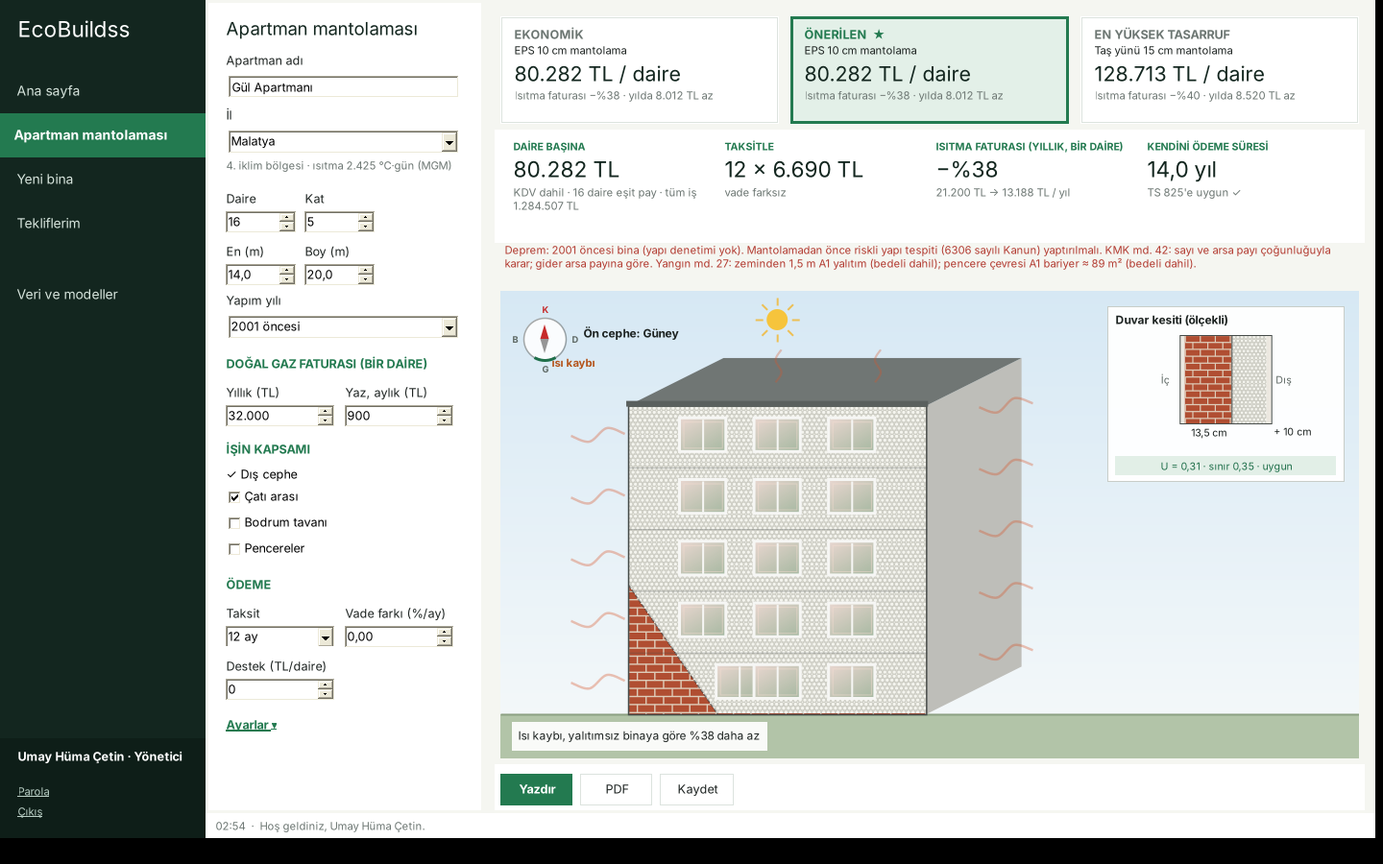
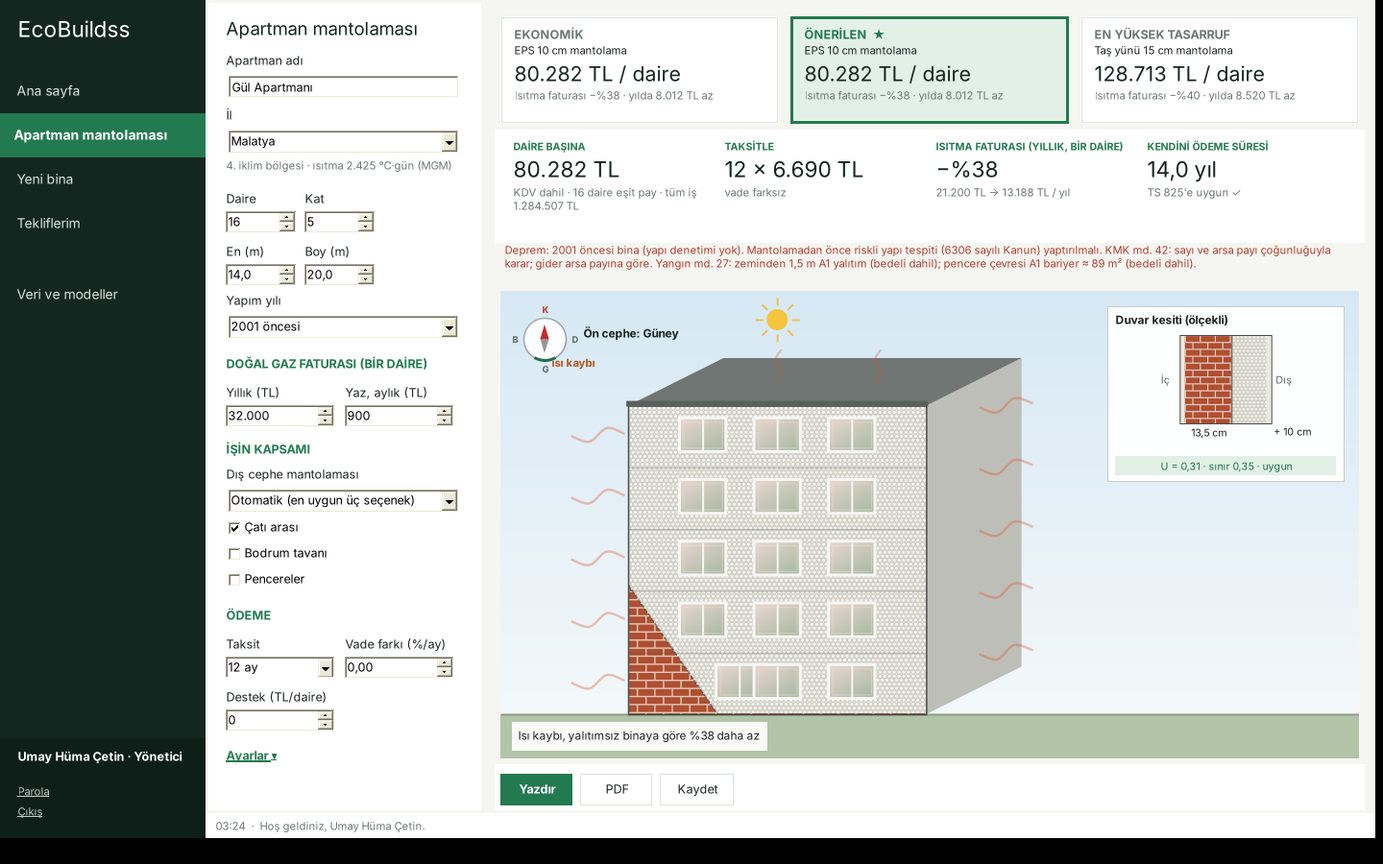
Apartmanda mantolama malzemesi seçimi; ortak veritabanı (bilgisayarın tüm kullanıcıları ve ağ klasörü), eşzamanlı yazmada güvenli işlem

Changed region(s): [[0.1562, 0.5289, 0.3438, 0.9022]]

diff --git a/src/EcoBuildss.App/Sekmeler/ApartmanSekmesi.cs b/src/EcoBuildss.App/Sekmeler/ApartmanSekmesi.cs
@@ -13,7 +13,9 @@ namespace EcoBuildss.UI
         readonly Durum d;
         readonly TextBox ad = new() { Width = 240 };
         readonly ComboBox il = new() { DropDownStyle = ComboBoxStyle.DropDownList, Width = 240 }, taksit = new() { DropDownStyle = ComboBoxStyle.DropDownList, Width = 110 },
-            dograma = new() { DropDownStyle = ComboBoxStyle.DropDownList, Width = 240 }, yapim = new() { DropDownStyle = ComboBoxStyle.DropDownList, Width = 240 };
+            dograma = new() { DropDownStyle = ComboBoxStyle.DropDownList, Width = 240 }, yapim = new() { DropDownStyle = ComboBoxStyle.DropDownList, Width = 240 },
+            mantolama = new() { DropDownStyle = ComboBoxStyle.DropDownList, Width = 240 };
+        List<Malzeme> mantolamaMalzemeleri = new();   // mantolama kutusundaki sıra (0 = otomatik)
         readonly NumericUpDown daire = Sayi(1, 500, 16, 0), kat = Sayi(1, 40, 5, 0), en = Sayi(4, 200, 14, 1), boy = Sayi(4, 300, 20, 1),
             fatura = Sayi(0, 1_000_000, 0, 0, 500), yaz = Sayi(0, 100_000, 0, 0, 50), vade = Sayi(0, 10, 0, 2, 0.25m), destek = Sayi(0, 1_000_000, 0, 0, 1000),
             katH = Sayi(2.4m, 6, 2.9m, 2), camOrani = Sayi(0, 90, 18, 0), mevcutU = Sayi(0.3m, 3.5m, 1.78m, 2), kar = Sayi(0, 100, 18, 0), indirim = Sayi(0, 60, 0, 1);
@@ -60,7 +62,11 @@ namespace EcoBuildss.UI
             Baslik("Doğal gaz faturası (bir daire)");
             sol.Controls.Add(Izgara(("Yıllık (TL)", fatura), ("Yaz, aylık (TL)", yaz)));
             Baslik("İşin kapsamı");
-            sol.Controls.Add(new Label { Text = "✓ Dış cephe", AutoSize = true, Font = Ui.Yazi, Margin = new Padding(0, 6, 0, 0) });
+            mantolamaMalzemeleri = d.V.Malzemeler.Where(m => m.Tur == 'Y').OrderBy(m => m.Aile).ThenBy(m => m.Kalinlik).ToList();
+            mantolama.Items.Add("Otomatik (en uygun üç seçenek)");
+            foreach (var m in mantolamaMalzemeleri) mantolama.Items.Add(m.KisaAd);
+            mantolama.SelectedIndex = 0;
+            Alan(sol, "Dış cephe mantolaması", mantolama);
             sol.Controls.Add(cati); sol.Controls.Add(zemin); sol.Controls.Add(pencere);
             Baslik("Ödeme");
             sol.Controls.Add(Izgara(("Taksit", taksit), ("Vade farkı (%/ay)", vade)));
@@ -109,7 +115,7 @@ namespace EcoBuildss.UI
             duzen.Controls.Add(sol, 0, 0); duzen.Controls.Add(orta, 1, 0);
             Controls.Add(duzen);
 
-            foreach (Control c in new Control[] { yapim, cevre, taban, penEn, penBoy, destek, il, taksit, dograma, daire, kat, en, boy, fatura, yaz, vade, katH, camOrani, mevcutU, kar, indirim, cati, pencere, zemin })
+            foreach (Control c in new Control[] { mantolama, yapim, cevre, taban, penEn, penBoy, destek, il, taksit, dograma, daire, kat, en, boy, fatura, yaz, vade, katH, camOrani, mevcutU, kar, indirim, cati, pencere, zemin })
                 switch (c)
                 {
                     case ComboBox cb: cb.SelectedIndexChanged += (_, __) => Degisti(); break;
@@ -165,7 +171,18 @@ namespace EcoBuildss.UI
                 ApartmanSonucu A(Secenek s) => Apartman.Hesapla(d.V, r, s, (int)daire.Value, (double)kar.Value / 100, (double)indirim.Value / 100, f, y, TaksitSayisi, (double)vade.Value / 100, (double)destek.Value);
                 var eko = r.Siralama.OrderBy(s => s.IlkYatirim).First();
                 var yuk = r.Siralama.OrderBy(s => s.YillikIsitmaKWh).ThenBy(s => s.IlkYatirim).First();
-                paketler = new() { ("Ekonomik", eko, A(eko)), ("Önerilen", r.Siralama[0], A(r.Siralama[0])), ("En yüksek tasarruf", yuk, A(yuk)) };
+                // Firma/yönetim belirli bir malzeme istiyorsa orta kart o olur; iki yandaki kartlar karşılaştırma için kalır
+                Secenek? secilen = null;
+                if (mantolama.SelectedIndex > 0)
+                {
+                    var m = mantolamaMalzemeleri[mantolama.SelectedIndex - 1];
+                    secilen = r.Siralama.FirstOrDefault(x => x.Yalitim.Id == m.Id) ?? r.Tum.Where(x => x.Yalitim.Id == m.Id).OrderBy(x => x.IlkYatirim).FirstOrDefault();
+                    if (secilen == null) d.Bildir($"{m.KisaAd} bu bina yüksekliğinde kullanılamaz (yangın yönetmeliği md. 27).");
+                }
+                paketler = secilen != null
+                    ? new() { ("Ekonomik", eko, A(eko)), ("Seçilen", secilen, A(secilen)), ("En yüksek tasarruf", yuk, A(yuk)) }
+                    : new() { ("Ekonomik", eko, A(eko)), ("Önerilen", r.Siralama[0], A(r.Siralama[0])), ("En yüksek tasarruf", yuk, A(yuk)) };
+                if (secilen != null) seciliIndeks = 1;
                 Goster();
             }
             catch (Exception e) { d.Hata("Hesap yapılamadı: " + e.Message, e); }
@@ -201,7 +218,7 @@ namespace EcoBuildss.UI
             var t = new KayitliTeklif
             {
                 TeklifNo = d.Db.YeniTeklifNo(), Musteri = ad.Text.Trim(), MusteriTipi = "Site yönetimi", Il = SeciliIl.Ad, ProjeTuru = "Yenileme",
-                KullanimAlani = SonSonuc.KullanimAlani, Paket = pad == "En yüksek tasarruf" ? "Yüksek performans" : pad, Oncelik = "Dengeli",
+                KullanimAlani = SonSonuc.KullanimAlani, Paket = pad == "En yüksek tasarruf" ? "Yüksek performans" : pad == "Seçilen" ? "Özel" : pad, Oncelik = "Dengeli",
                 YalitimId = s.Yalitim.Id, CamId = s.Cam.Id, DuvarId = s.Duvar.Id, Dograma = SonGirdi.Dograma, Yakit = "DG",
                 En = (double)en.Value, Boy = (double)boy.Value, Cevre = b.En.HasValue ? 0 : (double)cevre.Value, Taban = b.En.HasValue ? 0 : (double)taban.Value, PencereEn = (double)penEn.Value / 100, PencereBoy = (double)penBoy.Value / 100, KatSayisi = b.KatSayisi, KatYuksekligi = (double)katH.Value, CamOrani = SonGirdi.CamOrani,
                 TeklifTL = a.TeklifTL, TeklifTLm2 = a.TeklifTL / SonSonuc.KullanimAlani, GeriOdemeYil = a.GeriOdemeYil, IndirimOrani = (double)indirim.Value / 100,
@@ -226,6 +243,7 @@ namespace EcoBuildss.UI
                 if (t.En > 0) { en.Value = Sinirla(en, t.En); boy.Value = Sinirla(boy, t.Boy); kat.Value = Sinirla(kat, t.KatSayisi); katH.Value = Sinirla(katH, t.KatYuksekligi); }
                 if (t.DaireSayisi > 0) daire.Value = Sinirla(daire, t.DaireSayisi);
                 yapim.SelectedIndex = Math.Max(0, Array.IndexOf(Deprem.Donemler, t.YapimDonemi));
+                mantolama.SelectedIndex = t.Paket == "Özel" ? mantolamaMalzemeleri.FindIndex(m => m.Id == t.YalitimId) + 1 : 0;
                 destek.Value = Sinirla(destek, t.DestekDaire);
                 camOrani.Value = Sinirla(camOrani, 100 * t.CamOrani); indirim.Value = Sinirla(indirim, 100 * t.IndirimOrani);
             }
@@ -324,7 +342,7 @@ namespace EcoBuildss.UI
             if (Veri is not var (ad, s, a)) return;
             float y = 10, x = 14, w = Width - 28;
             void Yaz(string t, Font f, Color c, float ek = 3) { var b = g.MeasureString(t, f, (int)w); using var br = new SolidBrush(c); g.DrawString(t, f, br, new RectangleF(x, y, w, b.Height)); y += b.Height + ek; }
-            Yaz(ad.ToUpper(Ui.TR) + (ad == "Önerilen" ? "  ★" : ""), Ui.Kalin, ad == "Önerilen" ? Ui.Yesil : Ui.Soluk, 1);
+            Yaz(ad.ToUpper(Ui.TR) + (ad == "Önerilen" ? "  ★" : ""), Ui.Kalin, ad == "Önerilen" || ad == "Seçilen" ? Ui.Yesil : Ui.Soluk, 1);
             Yaz(TeklifRaporu.PaketAdi(s), Ui.Kucuk, Ui.Metin, 4);
             Yaz($"{Ui.Tl(a.NetDaireTL)} / daire", Ui.BuyukSayi, Ui.Koyu, 2);
             Yaz($"Isıtma faturası −%{100 * a.AzalmaOrani:0} · yılda {Ui.Tl(a.YillikTasarruf)} az", Ui.Kucuk, Ui.Soluk, 0);

diff --git a/src/EcoBuildss.App/Sekmeler/YoneticiSekmesi.cs b/src/EcoBuildss.App/Sekmeler/YoneticiSekmesi.cs
@@ -227,11 +227,59 @@ namespace EcoBuildss.UI
                 catch (Exception e) { d.Hata("Geri yüklenemedi: " + e.Message, e); Ui.Hata(this, "Geri yüklenemedi: " + e.Message); }
             }));
             ust.Controls.Add(Ui.Dugme("Kurtarma anahtarı", (_, __) => KurtarmaYenile()));
+            ust.Controls.Add(Ui.Dugme("Veri konumu", (_, __) => VeriKonumuDegistir()));
             ust.Controls.Add(Ui.Dugme("Klasör", (_, __) => { try { System.Diagnostics.Process.Start(new System.Diagnostics.ProcessStartInfo(d.Db!.YedekKlasoru) { UseShellExecute = true }); } catch { } }));
             var p = new Panel();
             p.Controls.Add(Ui.Kart("Yedekler", yedekler)); p.Controls.Add(ust);
             p.VisibleChanged += (_, __) => { if (p.Visible) Doldur(); };
             return p;
+        }
+
+        /// <summary>
+        /// Veritabanının yeri: bu bilgisayar (bütün Windows kullanıcıları) ya da ağ klasörü (ofisteki birkaç bilgisayar).
+        /// Mevcut veri yeni klasöre tutarlı biçimde kopyalanır; oradan devam etmek için program yeniden başlar.
+        /// </summary>
+        void VeriKonumuDegistir()
+        {
+            if (d.Db == null || !d.Yonetici) return;
+            string simdiki = Path.GetDirectoryName(d.Db.Dosya)!;
+            using var f = Pencere("Veri konumu", 230);
+            var p = (FlowLayoutPanel)f.Controls[0];
+            p.Controls.Add(Ui.Etiket("Şu an"));
+            p.Controls.Add(new TextBox { Text = simdiki, ReadOnly = true, Width = 300 });
+            string? secim = null; bool buBilgisayar = false;
+            var sec = Ui.Dugme("Ağ klasörü seç", (_, __) =>
+            {
+                using var fb = new FolderBrowserDialog { Description = "Ofisteki bilgisayarların ortak kullanacağı klasör" };
+                if (fb.ShowDialog(f) == DialogResult.OK) { secim = fb.SelectedPath; f.DialogResult = DialogResult.OK; }
+            }, true);
+            var yerel = Ui.Dugme("Bu bilgisayar", (_, __) => { buBilgisayar = true; f.DialogResult = DialogResult.OK; });
+            yerel.Enabled = AnaForm.Konum?.Secilmis == true;
+            p.Controls.Add(sec); p.Controls.Add(yerel);
+            if (f.ShowDialog(this) != DialogResult.OK) return;
+
+            string hedef = buBilgisayar ? AnaForm.OrtakKlasor : secim!;
+            if (string.Equals(Path.GetFullPath(hedef).TrimEnd('\\', '/'), Path.GetFullPath(simdiki).TrimEnd('\\', '/'), StringComparison.OrdinalIgnoreCase)) return;
+            string hedefDb = Path.Combine(hedef, VeriKonumu.DbAdi);
+            try
+            {
+                if (File.Exists(hedefDb))
+                {
+                    if (MessageBox.Show(this, "Bu klasörde zaten EcoBuildss verisi var. Oradaki veri kullanılsın mı? (Buradaki veri olduğu gibi kalır.)", "Veri konumu",
+                                        MessageBoxButtons.YesNo, MessageBoxIcon.Question) != DialogResult.Yes) return;
+                }
+                else
+                {
+                    if (!VeriKonumu.Yazilabilir(hedef)) { Ui.Hata(this, "Bu klasöre yazılamıyor."); return; }
+                    d.Db.KopyaYaz(hedefDb);
+                }
+                VeriKonumu.Ayarla(AnaForm.OrtakKlasor, buBilgisayar ? null : hedef);
+                d.Db.Gunluk("Veri konumu değişti", $"{simdiki} → {hedef}", Seviye.Guvenlik);
+            }
+            catch (UnauthorizedAccessException) { Ui.Hata(this, "Bu ayar için programı kurulum dosyasıyla kurun ya da yönetici olarak çalıştırın."); return; }
+            catch (Exception e) { d.Hata("Veri konumu değiştirilemedi: " + e.Message, e); Ui.Hata(this, "Veri konumu değiştirilemedi: " + e.Message); return; }
+            MessageBox.Show(this, "Program yeni konumla yeniden açılacak.", "Veri konumu", MessageBoxButtons.OK, MessageBoxIcon.Information);
+            Application.Restart();
         }
 
         void KurtarmaYenile()

diff --git a/src/EcoBuildss.Core/Depo/VeriKonumu.cs b/src/EcoBuildss.Core/Depo/VeriKonumu.cs
@@ -1,0 +1,77 @@
+using System;
+using System.IO;
+
+namespace EcoBuildss.Core.Depo
+{
+    /// <summary>
+    /// Veritabanının yeri. Sırasıyla:
+    ///  1) Yöneticinin seçtiği klasör (ağ paylaşımı olabilir) — ortak klasördeki veri_konumu.txt dosyasında yazılıdır;
+    ///  2) bu bilgisayarın ortak klasörü (C:\ProgramData\EcoBuildss) — bilgisayardaki bütün Windows kullanıcıları aynı veriyi görür;
+    ///  3) yazılamıyorsa kullanıcının kendi klasörü (%AppData%\EcoBuildss).
+    /// Eski sürümde kullanıcı klasöründe kalan veritabanı, ortak klasör boşsa oraya kopyalanır (eskisi silinmez).
+    /// </summary>
+    public static class VeriKonumu
+    {
+        public const string DbAdi = "ecobuildss.db", KonumDosyasi = "veri_konumu.txt";
+
+        public sealed class Sonuc
+        {
+            public string Klasor = "";
+            public string? Tasindi;      // eski konumdan kopyalandıysa eski klasör
+            public bool Secilmis;         // yöneticinin seçtiği klasör mü
+        }
+
+        public static Sonuc Bul(string ortak, string kisisel)
+        {
+            string konum = Path.Combine(ortak, KonumDosyasi);
+            if (File.Exists(konum))
+            {
+                string k = File.ReadAllText(konum).Trim();
+                if (k.Length > 0)
+                {
+                    try { Directory.CreateDirectory(k); }
+                    catch (Exception e) { throw new IOException($"Seçilen veri klasörüne ulaşılamıyor: {k}\n({e.Message})\nAğ bağlantısını kontrol edin.", e); }
+                    if (!File.Exists(Path.Combine(k, DbAdi)) && !Yazilabilir(k)) throw new IOException($"Seçilen veri klasörüne yazılamıyor: {k}");
+                    return new Sonuc { Klasor = k, Secilmis = true };
+                }
+            }
+            if (Yazilabilir(ortak))
+            {
+                var s = new Sonuc { Klasor = ortak };
+                string eski = Path.Combine(kisisel, DbAdi), yeni = Path.Combine(ortak, DbAdi);
+                if (!File.Exists(yeni) && File.Exists(eski))
+                {
+                    foreach (var ek in new[] { "", "-wal", "-shm" })
+                        if (File.Exists(eski + ek)) File.Copy(eski + ek, yeni + ek);
+                    s.Tasindi = kisisel;
+                }
+                return s;
+            }
+            Directory.CreateDirectory(kisisel);
+            return new Sonuc { Klasor = kisisel };
+        }
+
+        /// <summary>Yönetici veri klasörünü seçer (null = bu bilgisayarın ortak klasörü).</summary>
+        public static void Ayarla(string ortak, string? klasor)
+        {
+            Directory.CreateDirectory(ortak);
+            string konum = Path.Combine(ortak, KonumDosyasi);
+            if (string.IsNullOrWhiteSpace(klasor)) { if (File.Exists(konum)) File.Delete(konum); return; }
+            if (!Path.IsPathRooted(klasor)) throw new ArgumentException("Tam klasör yolu girilmeli.");
+            File.WriteAllText(konum, klasor!.Trim());
+        }
+
+        public static bool Yazilabilir(string klasor)
+        {
+            try
+            {
+                Directory.CreateDirectory(klasor);
+                string t = Path.Combine(klasor, $".yazma_denemesi_{Guid.NewGuid():N}");
+                File.WriteAllText(t, "");
+                File.Delete(t);
+                return true;
+            }
+            catch { return false; }
+        }
+    }
+}

diff --git a/src/EcoBuildss.Core/Depo/Sqlite.cs b/src/EcoBuildss.Core/Depo/Sqlite.cs
@@ -1,6 +1,7 @@
 using System;
 using System.Collections.Generic;
 using System.Globalization;
+using System.IO;
 using System.Runtime.InteropServices;
 using System.Text;
 
@@ -52,7 +53,17 @@ namespace EcoBuildss.Core.Depo
             Dosya = dosya;
             int rc = sqlite3_open_v2(Utf8(dosya), out db, 0x02 | 0x04, IntPtr.Zero);   // READWRITE | CREATE
             if (rc != OK) { string m = Hata(); sqlite3_close_v2(db); db = IntPtr.Zero; throw new InvalidOperationException($"Veritabanı açılamadı ({dosya}): {m}"); }
-            if (!pragmasiz) Calistir("PRAGMA foreign_keys = ON; PRAGMA journal_mode = WAL;");
+            // Birden çok kişi aynı dosyayı kullanabilir: kilit varsa 10 sn beklenir.
+            // Ağ klasöründe WAL çalışmaz (paylaşılan bellek gerektirir); orada klasik günlük kipi kullanılır.
+            if (!pragmasiz) Calistir($"PRAGMA busy_timeout = 10000; PRAGMA foreign_keys = ON; PRAGMA journal_mode = {(AgYolu(dosya) ? "DELETE" : "WAL")};");
+        }
+
+        /// <summary>Dosya ağ paylaşımında mı (\\sunucu\klasör ya da ağ sürücüsü)?</summary>
+        public static bool AgYolu(string dosya)
+        {
+            if (dosya.StartsWith(@"\\", StringComparison.Ordinal) || dosya.StartsWith("//", StringComparison.Ordinal)) return true;
+            try { var kok = Path.GetPathRoot(Path.GetFullPath(dosya)); return !string.IsNullOrEmpty(kok) && new DriveInfo(kok).DriveType == DriveType.Network; }
+            catch { return false; }
         }
 
         static byte[] Utf8(string s) { var b = Encoding.UTF8.GetBytes(s); Array.Resize(ref b, b.Length + 1); return b; }
@@ -149,10 +160,18 @@ namespace EcoBuildss.Core.Depo
             if (rc != DONE) throw new InvalidOperationException($"Yedekleme tamamlanamadı (kod {rc}).");
         }
 
+        int islemDerinligi;
+
+        /// <summary>
+        /// İşlem (transaction). BEGIN IMMEDIATE: yazma kilidi baştan alınır; iki kişi aynı anda günlüğe yazarsa
+        /// biri bekler, aynı sıra numarasını iki kez almazlar. İç içe çağrıda dıştaki işlem geçerlidir.
+        /// </summary>
         public void Islem(Action a)
         {
-            Calistir("BEGIN");
-            try { a(); Calistir("COMMIT"); } catch { Calistir("ROLLBACK"); throw; }
+            if (islemDerinligi > 0) { islemDerinligi++; try { a(); } finally { islemDerinligi--; } return; }
+            Calistir("BEGIN IMMEDIATE");
+            islemDerinligi = 1;
+            try { a(); Calistir("COMMIT"); } catch { Calistir("ROLLBACK"); throw; } finally { islemDerinligi = 0; }
         }
 
         public void Dispose() { if (db != IntPtr.Zero) { sqlite3_close_v2(db); db = IntPtr.Zero; } }

diff --git a/tests/EcoBuildss.Tests/Program.cs b/tests/EcoBuildss.Tests/Program.cs
@@ -425,6 +425,31 @@ static class Testler
                 db.OturumKapat();
                 Dogrula(db.GirisYap("umay", "Gizli2026!") == GirisSonucu.HataliBilgi, "Eski parola artık geçmez");
             }
+            {
+                string kk = Path.Combine(Path.GetTempPath(), "ecob_konum_" + Guid.NewGuid().ToString("N"));
+                string ortak = Path.Combine(kk, "ortak"), kisisel = Path.Combine(kk, "kisisel"), ag = Path.Combine(kk, "ag");
+                Directory.CreateDirectory(kisisel); File.WriteAllText(Path.Combine(kisisel, VeriKonumu.DbAdi), "eski");
+                var k1 = VeriKonumu.Bul(ortak, kisisel);
+                bool tasindi = k1.Klasor == ortak && k1.Tasindi == kisisel && File.ReadAllText(Path.Combine(ortak, VeriKonumu.DbAdi)) == "eski" && File.Exists(Path.Combine(kisisel, VeriKonumu.DbAdi));
+                VeriKonumu.Ayarla(ortak, ag);
+                var k2 = VeriKonumu.Bul(ortak, kisisel);
+                VeriKonumu.Ayarla(ortak, null);
+                var k3 = VeriKonumu.Bul(ortak, kisisel);
+                Dogrula(tasindi && k2.Klasor == ag && k2.Secilmis && k3.Klasor == ortak && !k3.Secilmis && k3.Tasindi == null,
+                        "Veri konumu: ortak klasöre taşınır (eskisi silinmez), seçilen klasör kullanılır, geri alınabilir");
+                Directory.Delete(kk, true);
+            }
+            // Aynı dosyayı iki bağlantı (iki bilgisayar/kullanıcı) aynı anda kullanır: günlük sırası ve zinciri bozulmamalı
+            {
+                using var d1 = new Veritabani(dosya); using var d2 = new Veritabani(dosya);
+                d1.GirisYap("umay", "Yeni2026xx"); d2.GirisYap("umay", "Yeni2026xx");
+                int once = d1.GunlukOku(100000).Count;
+                var is1 = new System.Threading.Thread(() => { for (int i = 0; i < 40; i++) d1.Gunluk("Eşzamanlı deneme", "1-" + i); });
+                var is2 = new System.Threading.Thread(() => { for (int i = 0; i < 40; i++) d2.Gunluk("Eşzamanlı deneme", "2-" + i); });
+                is1.Start(); is2.Start(); is1.Join(); is2.Join();
+                Dogrula(d1.GunlukOku(100000).Count == once + 80 && d1.GunlukDogrula().sorun == null && d2.GunlukDogrula().sorun == null,
+                        "İki bağlantı aynı anda yazınca günlük kaybolmaz, zincir ve mühür bozulmaz", d1.GunlukDogrula().sorun ?? "");
+            }
             // Zincir anahtarsızdır; mühür, zincirin baştan yazılmasını ve son kayıtların silinmesini yakalar
             using (var db = new Veritabani(dosya))
             {

diff --git a/src/EcoBuildss.App/AnaForm.cs b/src/EcoBuildss.App/AnaForm.cs
@@ -174,12 +174,12 @@ namespace EcoBuildss.UI
             return k?.FullName ?? throw new DirectoryNotFoundException("veri/referans klasörü bulunamadı. Programı çözüm klasöründen ya da derleme çıktısından çalıştırın.");
         }
 
-        /// <summary>Veritabanı ve yedekler kullanıcının uygulama verisi klasöründe tutulur.</summary>
-        public static string VeriKlasoru()
-        {
-            string k = Path.Combine(Environment.GetFolderPath(Environment.SpecialFolder.ApplicationData), "EcoBuildss");
-            Directory.CreateDirectory(k);
-            return k;
-        }
+        /// <summary>Bu bilgisayardaki bütün Windows kullanıcılarının ortak klasörü (C:\ProgramData\EcoBuildss).</summary>
+        public static string OrtakKlasor => Path.Combine(Environment.GetFolderPath(Environment.SpecialFolder.CommonApplicationData), "EcoBuildss");
+        static string KisiselKlasor => Path.Combine(Environment.GetFolderPath(Environment.SpecialFolder.ApplicationData), "EcoBuildss");
+        public static VeriKonumu.Sonuc? Konum { get; private set; }
+
+        /// <summary>Veritabanı ve yedeklerin klasörü: yöneticinin seçtiği (ağ) klasör, yoksa bilgisayarın ortak klasörü.</summary>
+        public static string VeriKlasoru() => (Konum = VeriKonumu.Bul(OrtakKlasor, KisiselKlasor)).Klasor;
     }
 }

diff --git a/src/EcoBuildss.App/Program.cs b/src/EcoBuildss.App/Program.cs
@@ -43,7 +43,8 @@ namespace EcoBuildss.UI
                 MessageBox.Show("Veritabanı açılamadı:\n\n" + e.Message + "\n\nKullanıcı hesapları veritabanında tutulduğu için program bu durumda açılmaz.", "EcoBuildss", MessageBoxButtons.OK, MessageBoxIcon.Error);
                 return null;
             }
-            d.Db.Gunluk("Program açıldı", $"sürüm {typeof(Program).Assembly.GetName().Version} · {Environment.MachineName}");
+            d.Db.Gunluk("Program açıldı", $"sürüm {typeof(Program).Assembly.GetName().Version} · {Environment.MachineName} · {Environment.UserName} · {AnaForm.Konum?.Klasor}");
+            if (AnaForm.Konum?.Tasindi is string eski) d.Db.Gunluk("Veri ortak klasöre taşındı", $"{eski} → {AnaForm.Konum.Klasor} (eski dosya silinmedi)", Seviye.Guvenlik);
             var bozuk = ReferansButunluk.Denetle(d.Referans);
             if (bozuk.Count > 0)
             {

diff --git a/src/EcoBuildss.Core/Depo/Guvenlik.cs b/src/EcoBuildss.Core/Depo/Guvenlik.cs
@@ -507,6 +507,15 @@ CREATE TABLE IF NOT EXISTS kullanicilar (
             return yol;
         }
 
+        /// <summary>Veritabanının tutarlı kopyasını verilen dosyaya yazar (yönetici; veri klasörü değiştirilirken).</summary>
+        public void KopyaYaz(string hedefDosya)
+        {
+            Yetki(yonetici: true, "Veritabanını taşıma");
+            if (File.Exists(hedefDosya)) throw new IOException("Hedefte zaten bir veritabanı var.");
+            b.Yedekle(hedefDosya);
+            Gunluk("Veritabanı kopyalandı", hedefDosya, Seviye.Guvenlik);
+        }
+
         public List<FileInfo> Yedekler() => Directory.Exists(YedekKlasoru)
             ? new DirectoryInfo(YedekKlasoru).GetFiles("ecobuildss_*.db").OrderByDescending(f => f.LastWriteTime).ToList() : new List<FileInfo>();
 

diff --git a/README.md b/README.md
@@ -2,7 +2,7 @@
 
 Yalıtım ve inşaat firmaları için karar destek sistemi. Üç gerçek işi çözer:
 
-1. **Apartman mantolaması.** Bu işler kat malikleri toplantısında kazanılır ya da kaybedilir. Toplantıda herkes aynı üç şeyi sorar: daire başına ne ödeyeceğim, faturam ne kadar düşecek, kaç yılda döner. Sahada 10 dakikada bu üç sorunun cevabı ve toplantıda dağıtılacak tek sayfa çıkar; sayfa yazdırılır ya da **PDF** olarak kaydedilip WhatsApp/e-postayla gönderilir. PDF kaydedilirken müşteriye kendi notunuzu (en çok 600 karakter) yazabilirsiniz; not sayfada "Not" başlığıyla yer alır. Bir dairenin gerçek doğal gaz faturası girilirse tasarruf o faturadan hesaplanır. Ödemede 60 aya kadar taksit, aylık vade farkı ve daire başına **destek** (hibe, belediye ya da kampanya desteği) girilebilir; daire başı tutar, taksit ve geri ödeme destek düşülerek hesaplanır. Destek tutarı güncel programa göre elle girilir, programın içinde sabit bir destek varsayılmaz. Yapım yılı 2001 öncesiyse (4708 sayılı Yapı Denetimi Kanunu öncesi) mantolamadan önce riskli yapı tespiti (6306 sayılı Kanun) yaptırılması gerektiği ekranda ve toplantı sayfasında yazar.
+1. **Apartman mantolaması.** Bu işler kat malikleri toplantısında kazanılır ya da kaybedilir. Toplantıda herkes aynı üç şeyi sorar: daire başına ne ödeyeceğim, faturam ne kadar düşecek, kaç yılda döner. Sahada 10 dakikada bu üç sorunun cevabı ve toplantıda dağıtılacak tek sayfa çıkar; sayfa yazdırılır ya da **PDF** olarak kaydedilip WhatsApp/e-postayla gönderilir. PDF kaydedilirken müşteriye kendi notunuzu (en çok 600 karakter) yazabilirsiniz; not sayfada "Not" başlığıyla yer alır. Bir dairenin gerçek doğal gaz faturası girilirse tasarruf o faturadan hesaplanır. **Dış cephe mantolaması** kutusundan belirli bir malzeme (ör. taş yünü 15 cm) seçilirse orta kart o malzeme olur, yanlardaki ekonomik ve en yüksek tasarruf kartları karşılaştırma için kalır. Ödemede 60 aya kadar taksit, aylık vade farkı ve daire başına **destek** (hibe, belediye ya da kampanya desteği) girilebilir; daire başı tutar, taksit ve geri ödeme destek düşülerek hesaplanır. Destek tutarı güncel programa göre elle girilir, programın içinde sabit bir destek varsayılmaz. Yapım yılı 2001 öncesiyse (4708 sayılı Yapı Denetimi Kanunu öncesi) mantolamadan önce riskli yapı tespiti (6306 sayılı Kanun) yaptırılması gerektiği ekranda ve toplantı sayfasında yazar.
 2. **Yeni bina.** Ruhsattan önce TS 825 ve yangın yönetmeliğine uyan duvar–yalıtım–cam paketlerinden en uygun maliyetlisi; keşif, teklif ve Excel çıktısıyla.
 3. **Tekliflerim.** Verilen tekliflerin takibi: bekleyen işler, kazanma oranı, kazanılan iş. 14 günü geçip cevapsız kalan teklif "ara" diye işaretlenir; yönetici **Satışçılar** ile kişi bazında kazanma oranını görür. Kabul edilen mantolama işinde **Gerçekleşen** ile önceki ve sonraki yılın doğal gaz tüketimi (m³) girilir; söz verilen tasarrufla karşılaştırılır. Karşılaştırma TL ile değil m³ ile yapılır, çünkü tarife değişince TL faturası tasarruftan bağımsız oynar. Sonuçlar işaretlendikçe sistem firmanın kendi verisinden kazanma olasılığını öğrenir.
 
@@ -92,9 +92,16 @@ Gerekenler: Windows 10/11 ve Visual Studio 2022 (.NET 8, “.NET masaüstü geli
 2. **F5** tuşuna basın. Başlangıç projesi `EcoBuildss.App`'tir.
 3. İlk açılışta yönetici hesabınızı oluşturun.
 
-**Kurulum dosyası (setup.exe):** `kurulum\yayinla.cmd` dosyasına çift tıklayın. Sırasıyla testleri çalıştırır, programı kendi .NET'iyle tek `EcoBuildss.exe` olarak `kurulum\cikti` klasörüne yayınlar ve [Inno Setup 6.3+](https://jrsoftware.org/isdl.php) kuruluysa `kurulum\kurulum_cikti\EcoBuildss-Kurulum-3.0.0.exe` dosyasını üretir. Bu dosya .NET kurulu olmayan bilgisayara da kurulur; Başlat menüsü ve masaüstü kısayolu ekler. Kaldırınca firma verisi (`%AppData%\EcoBuildss`) silinmez. Yayın için ilk seferde internet gerekir (.NET çalışma zamanı paketleri indirilir).
+**Kurulum dosyası (setup.exe):** `kurulum\yayinla.cmd` dosyasına çift tıklayın. Sırasıyla testleri çalıştırır, programı kendi .NET'iyle tek `EcoBuildss.exe` olarak `kurulum\cikti` klasörüne yayınlar ve [Inno Setup 6.3+](https://jrsoftware.org/isdl.php) kuruluysa `kurulum\kurulum_cikti\EcoBuildss-Kurulum-3.0.0.exe` dosyasını üretir. Bu dosya .NET kurulu olmayan bilgisayara da kurulur; Başlat menüsü ve masaüstü kısayolu ekler. Kaldırınca firma verisi silinmez. Yayın için ilk seferde internet gerekir (.NET çalışma zamanı paketleri indirilir).
 
-Hiçbir NuGet paketi gerekmez. SQLite'a Windows'un kendi `winsqlite3.dll` dosyasıyla bağlanılır. `nuget.config` paket kaynaklarını kapatır, bu yüzden proje internetsiz de derlenir. Veritabanı `%AppData%\EcoBuildss\ecobuildss.db` dosyasıdır.
+Hiçbir NuGet paketi gerekmez. SQLite'a Windows'un kendi `winsqlite3.dll` dosyasıyla bağlanılır. `nuget.config` paket kaynaklarını kapatır, bu yüzden proje internetsiz de derlenir. Veritabanı `C:\ProgramData\EcoBuildss\ecobuildss.db` dosyasıdır; bilgisayardaki bütün Windows kullanıcıları aynı veriyi kullanır (eski sürümden kalan `%AppData%` verisi ilk açılışta buraya kopyalanır).
+
+## Kullanıcılar ve birden çok bilgisayar
+
+- Hesabı **yönetici açar**; kimse kendi kendine kayıt olamaz. **Veri ve modeller → Kullanıcılar → Ekle**: ad soyad, kullanıcı adı, geçici parola, rol.
+- Kullanıcı adı ve geçici parola kişiye iletilir. Kişi ilk girişte kendi parolasını belirlemek zorundadır.
+- Parolasını unutan için yönetici **Parola sıfırla** ile yeni geçici parola verir; ayrılan kişi **Etkin / pasif** ile kapatılır (kayıtları silinmez).
+- **Ofiste birkaç bilgisayar:** yönetici **Yedek → Veri konumu → Ağ klasörü seç** ile ortak bir paylaşım klasörü seçer; mevcut veri oraya tutarlı biçimde kopyalanır. Diğer bilgisayarlarda program kurulup aynı ayar yapılınca herkes aynı veritabanını kullanır. Ağ klasöründe SQLite klasik günlük kipiyle çalışır; aynı anda yazmalar sıraya girer (10 sn bekleme), günlük zinciri bozulmaz. Küçük ofis (birkaç kişi) için uygundur.
 
 ## Gerçek veriyle kullanım
 
@@ -141,7 +148,7 @@ dotnet run --project tests/EcoBuildss.Tests
 python araclar/dogrulama/bagimsiz_dogrulama.py <klasör>   # isteğe bağlı: pandas, scikit-learn
 ```
 
-124 test vardır ve şunları kapsar:
+126 test vardır ve şunları kapsar:
 - metrikler (F1, AUC, CV(RMSE))
 - regresyon ve gerçek levha fiyatları
 - enerji motoru ve yangın yönetmeliği kuralı
